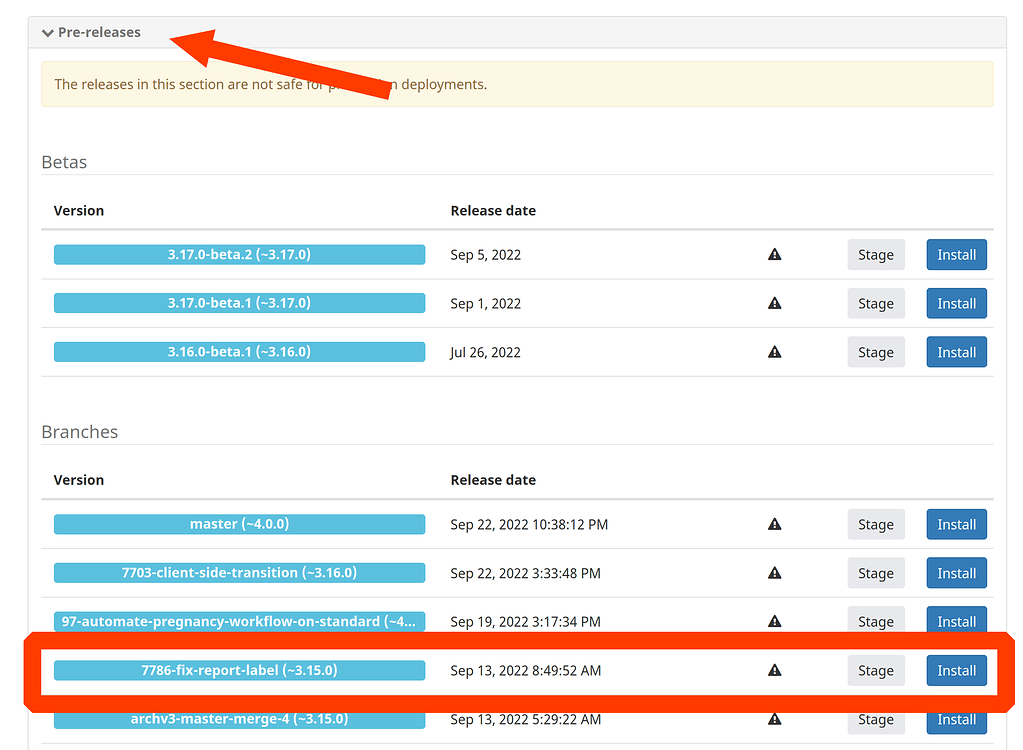
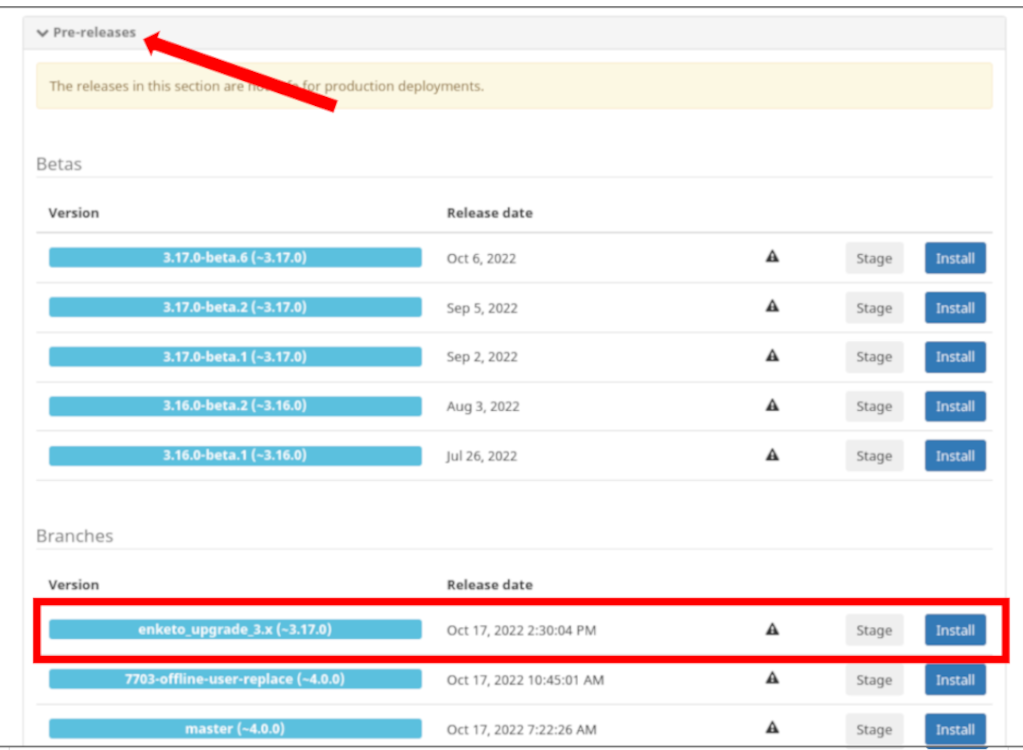
Change recommended Enketo form test branch to enketo_upgrade_3.x

diff --git a/content/en/apps/guides/updates/preparing-for-4.0.md b/content/en/apps/guides/updates/preparing-for-4.0.md
@@ -157,15 +157,15 @@ CHT 4.0 [upgrades the version of Enketo](https://github.com/medic/cht-core/pull/
 
 You can also manually test your forms on a non-prod CHT instance. It is possible to test your forms against the new Enekto changes without having to uplift your non-prod CHT instance to the new 4.0 architecture.
 
-An easy way of doing this is to use the [CHT Docker Helper]({{< relref "apps/guides/hosting/app-developer#cht-docker-helper" >}}) to deploy a 3.x CHT instance. After you have your dev instance up and running, upgrade to the `7786-fix-report-label` branch:
+An easy way of doing this is to use the [CHT Docker Helper]({{< relref "apps/guides/hosting/app-developer#cht-docker-helper" >}}) to deploy a 3.x CHT instance. After you have your dev instance up and running, upgrade to the `enketo_upgrade_3.x` branch:
 
 1. Log in as an Admin and go to the admin section, choose upgrades:
 
    ![CHT Admin - Upgrade Section](admin-upgrades.png)
 
-2. Expand the “Pre-releases” section by clicking on it and scroll down to the `7786-fix-report-label` branch and click “Install” on the right:
+2. Expand the “Pre-releases” section by clicking on it and scroll down to the `enketo_upgrade_3.x` branch and click “Install” on the right:
 
-   ![CHT Admin - Selecting the 7786-fix-report-label to upgrade to](select-branch.png)
+   ![CHT Admin - Selecting the enketo_upgrade_3.x to upgrade to](select-branch.png)
 
 After pushing your app config (see "CHT Conf" above), you can proceed to go through each of your forms in a browser and on a device to ensure there's no errors.
 
